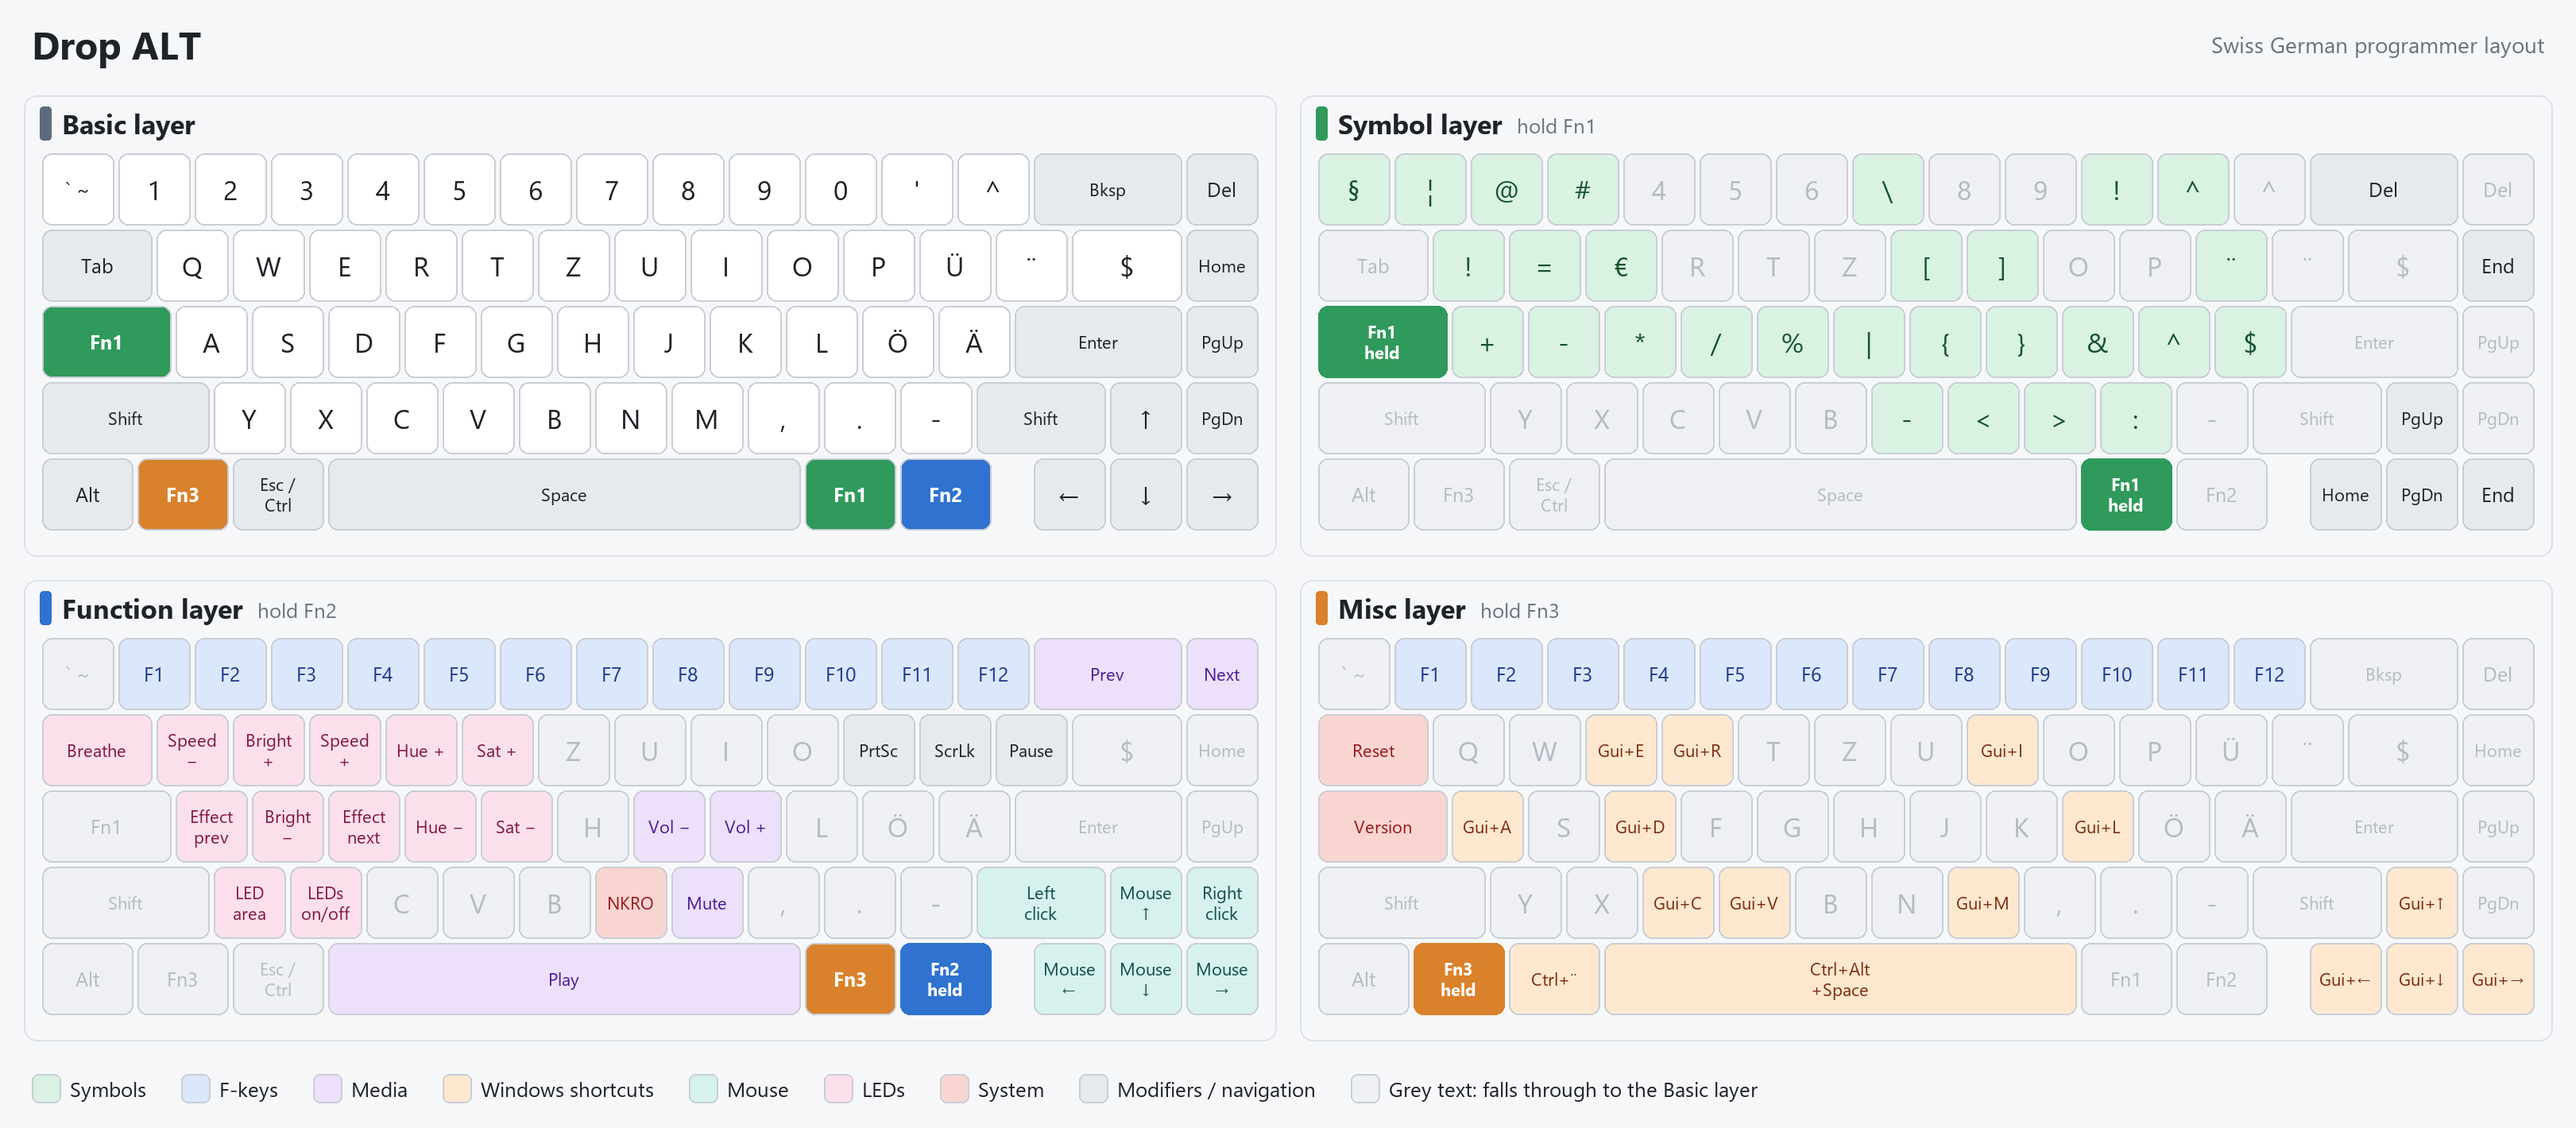
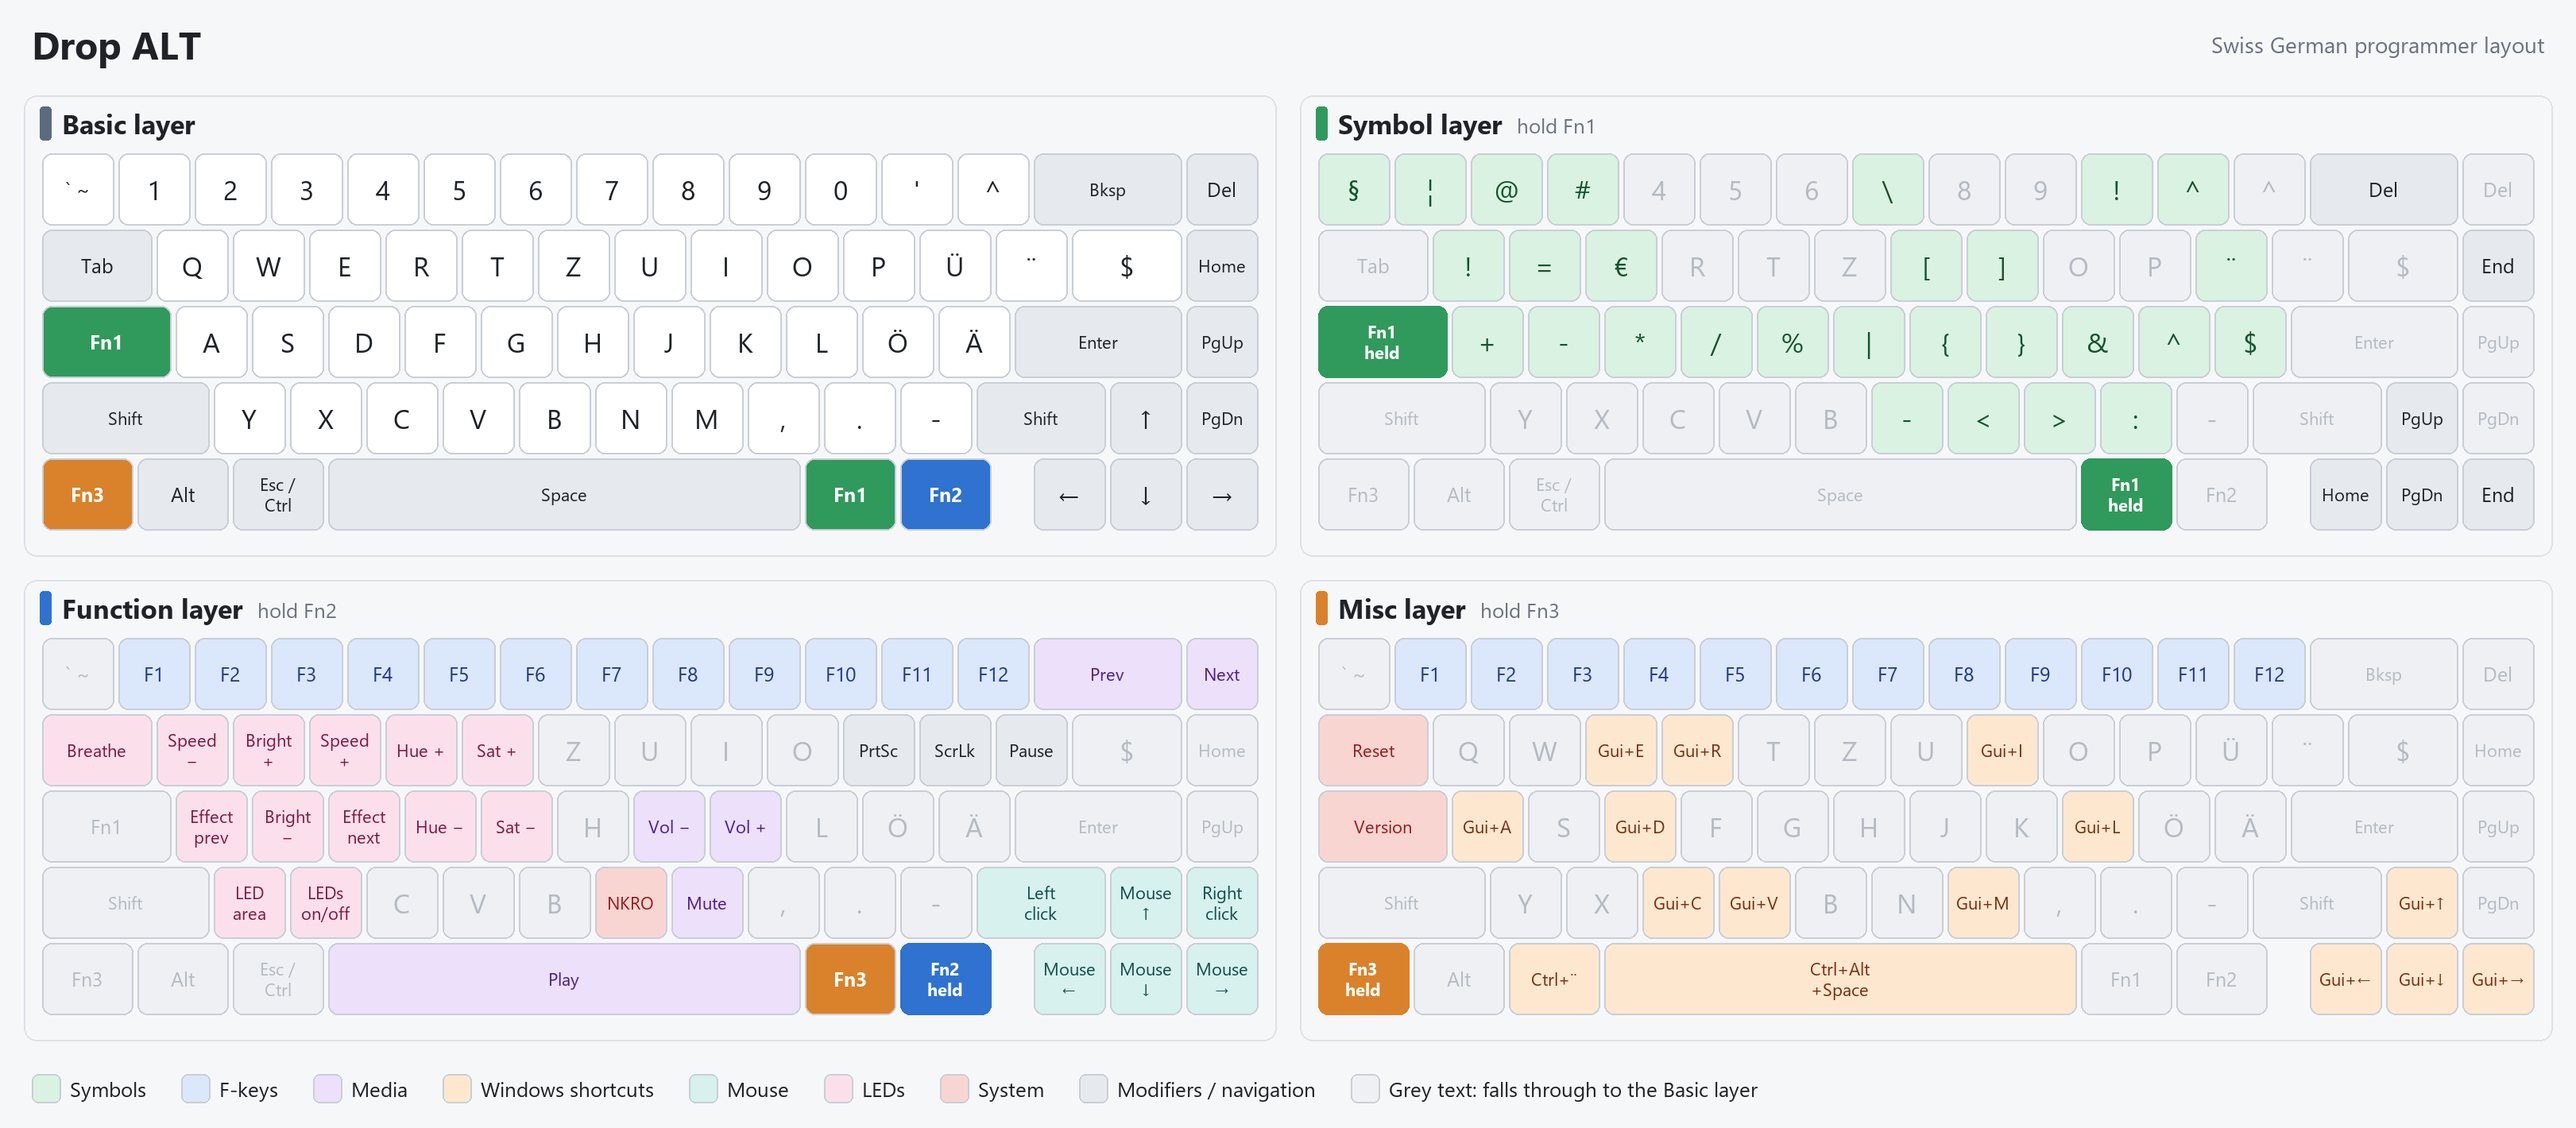
Swap Alt and Fn3 on the Drop ALT
The lower-left keys are now Fn3, Alt, CtlEsc, the same order as on the
Preonic and ErgoDox.

Changed region(s): [[0.0, 0.4028, 0.0935, 0.4958], [0.4985, 0.8366, 0.5919, 0.8986]]

diff --git a/keyboards/massdrop/alt/keymaps/swissgerman_programmer/keymap.c b/keyboards/massdrop/alt/keymaps/swissgerman_programmer/keymap.c
@@ -18,7 +18,7 @@ const uint16_t PROGMEM keymaps[][MATRIX_ROWS][MATRIX_COLS] = {
  * |-----------------------------------------------------------------------------------------------|
  * | Shift       |  Y  |  X  |  C  |  V  |  B  |  N  |  M  |  ,  |  .  |  -  |  Shift  | Up  | PgDn|
  * |-----------------------------------------------------------------------------------------------|
- * | Alt  | Fn3  |CtlEsc|                Space                | Fn1  | Fn2  |    | Left| Down|Right|
+ * | Fn3  | Alt  |CtlEsc|                Space                | Fn1  | Fn2  |    | Left| Down|Right|
  * `-----------------------------------------------------------------------------------------------'
  */
 [0] = LAYOUT_65_ansi_blocker(
@@ -26,7 +26,7 @@ const uint16_t PROGMEM keymaps[][MATRIX_ROWS][MATRIX_COLS] = {
     KC_TAB,         CH_Q,    CH_W,    CH_E,    CH_R,    CH_T,    CH_Z,    CH_U,    CH_I,    CH_O,    CH_P,    CH_UDIA, CH_DIAE, CH_DLR,  KC_HOME,
     MO(1),          CH_A,    CH_S,    CH_D,    CH_F,    CH_G,    CH_H,    CH_J,    CH_K,    CH_L,    CH_ODIA, CH_ADIA,          KC_ENT,  KC_PGUP,
     KC_LSFT,        CH_Y,    CH_X,    CH_C,    CH_V,    CH_B,    CH_N,    CH_M,    CH_COMM, CH_DOT,  CH_MINS, KC_RSFT,          KC_UP,   KC_PGDN,
-    KC_LALT,        MO(3),   LCTL_T(KC_ESC),                    KC_SPC,                             MO(1),   MO(2),   KC_LEFT, KC_DOWN, KC_RGHT
+    MO(3),          KC_LALT, LCTL_T(KC_ESC),                    KC_SPC,                             MO(1),   MO(2),   KC_LEFT, KC_DOWN, KC_RGHT
 ),
 
 /* Symbol layer
